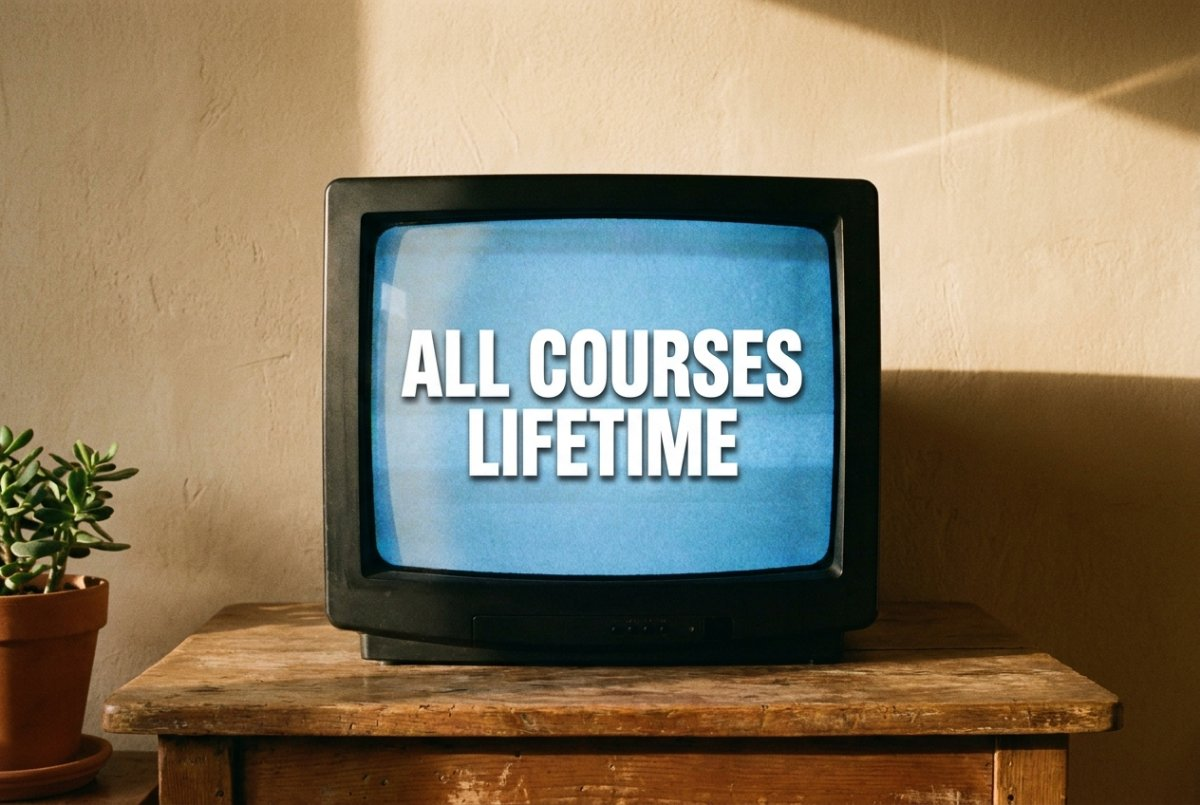
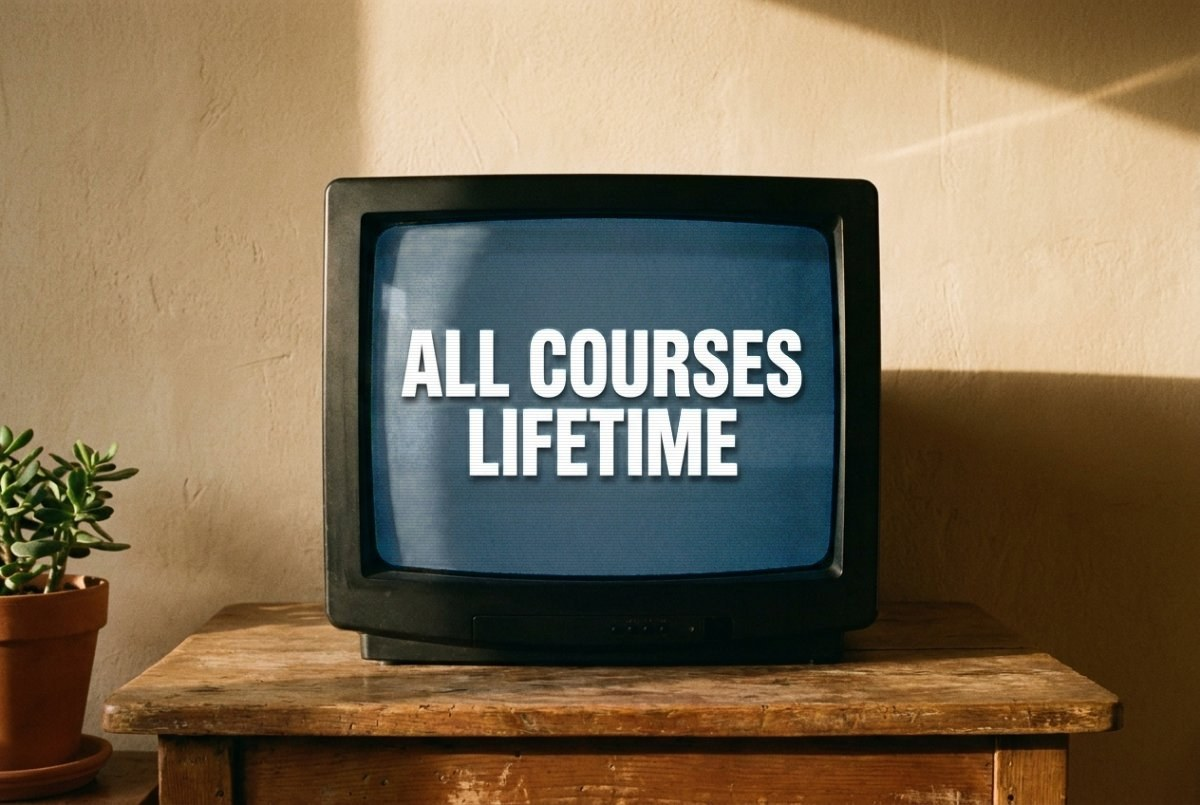
Product shot: darkened CRT screen, animated as a cinemagraph GIF
Only the TV glass animates (noise, rolling band, flicker) — every pixel
outside the screen is identical across frames. product.jpg is now the
darkened static frame so link previews match.

Claude-Session: https://claude.ai/code/session_01Vxwz97AdnQQxpbAGeSFrmV

Changed region(s): [[0.3083, 0.2484, 0.7092, 0.7143]]

diff --git a/discord-paygate/public/index.html b/discord-paygate/public/index.html
@@ -40,7 +40,7 @@
 
     <div id="notice"></div>
 
-    <img class="product-shot" id="product-shot" src="/product.jpg" alt="All courses lifetime"
+    <img class="product-shot" id="product-shot" src="/product.gif" alt="All courses lifetime"
          onerror="this.remove()" />
 
     <section class="panel row-panel">
